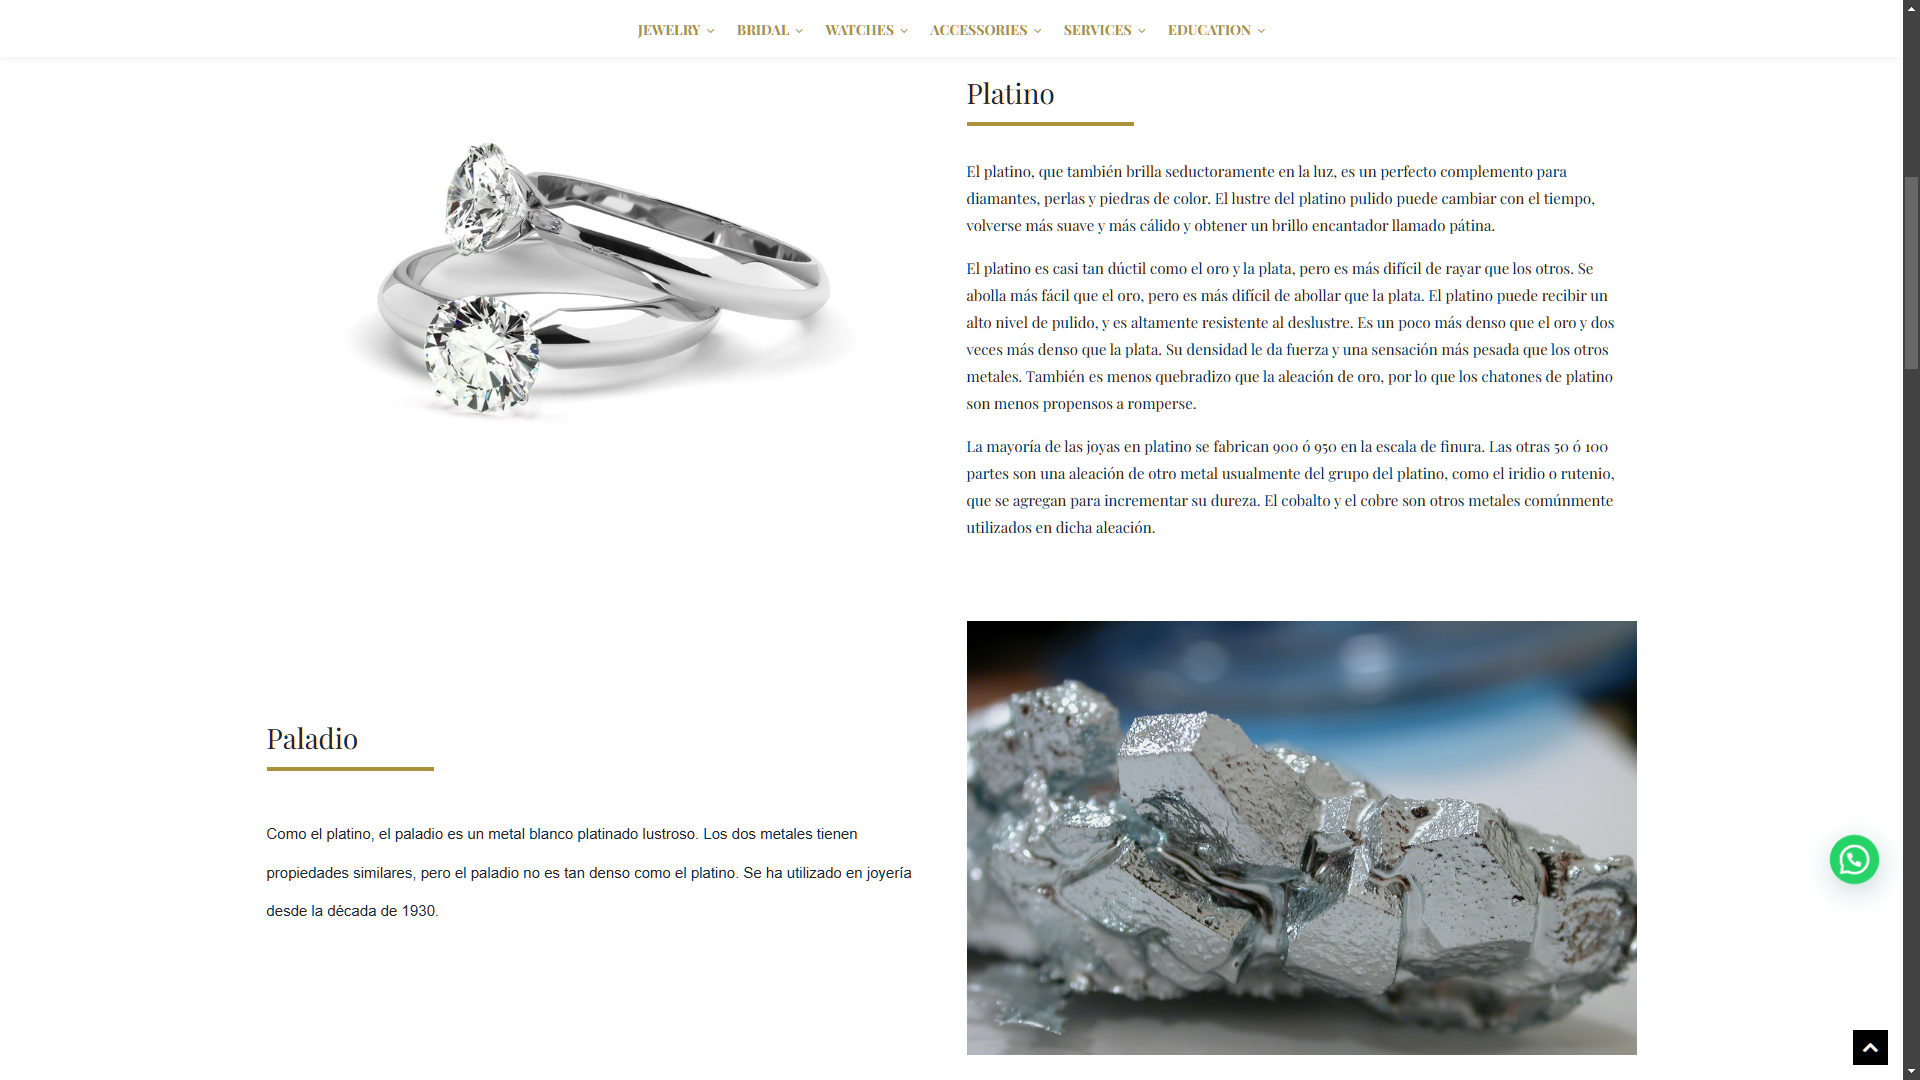
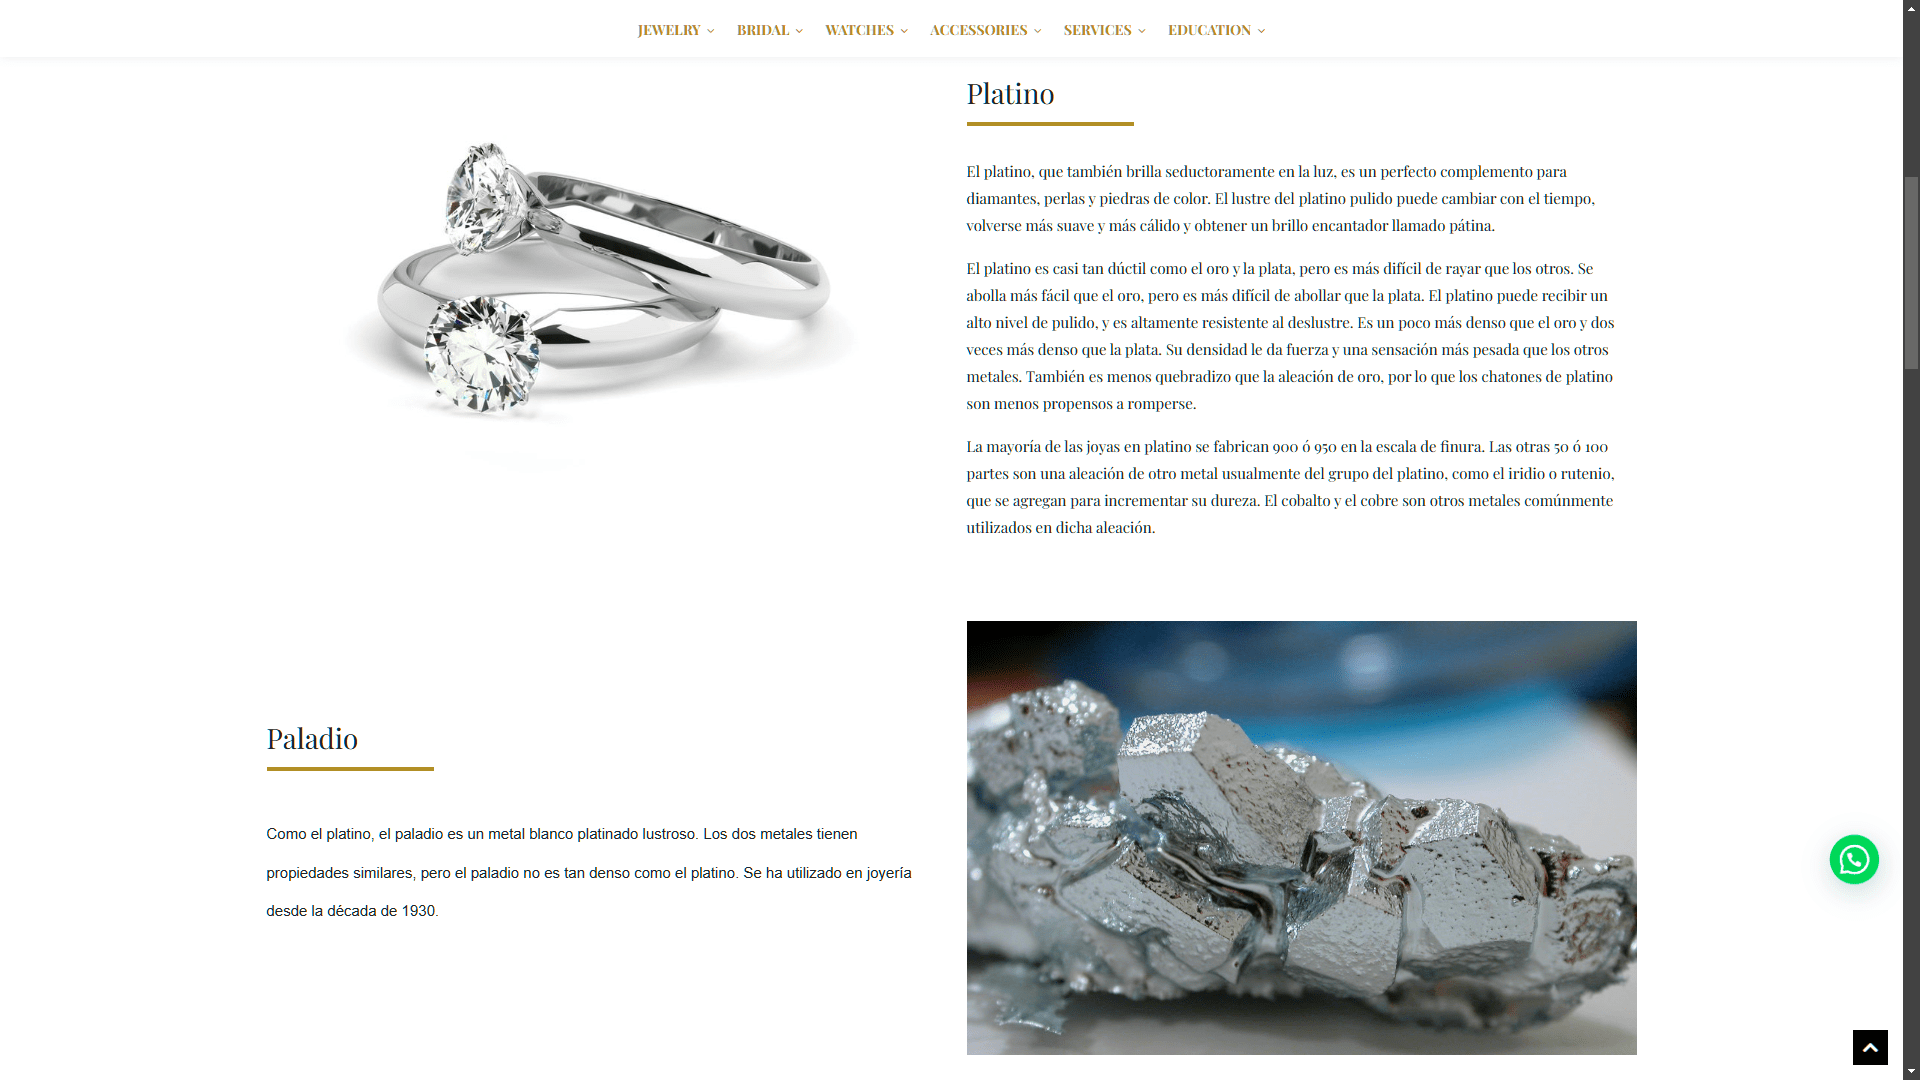
[2801202504] Update format path of images
From png to webp

Changed region(s): [[0.6562, 0.6417, 0.8125, 0.7028], [0.9375, 0.7639, 1.0, 0.825]]

diff --git a/projects/joyeria-londres.html b/projects/joyeria-londres.html
@@ -157,35 +157,35 @@
             <div class="swiper-wrapper align-items-center">
 
               <div class="swiper-slide">
-                <img loading="lazy" src="../assets/img/gallery/joyeria-londres/jl-1.png" alt="jl-1" aria-labelledby="Landing page de la pagina" tabindex="0">
+                <img loading="lazy" src="../assets/img/gallery/joyeria-londres/jl-1.webp" alt="jl-1" aria-labelledby="Landing page de la pagina" tabindex="0">
               </div>
 
               <div class="swiper-slide">
-                <img loading="lazy" src="../assets/img/gallery/joyeria-londres/jl-2.png" alt="jl-2" aria-labelledby="Home de Joyeria Londres" tabindex="1">
+                <img loading="lazy" src="../assets/img/gallery/joyeria-londres/jl-2.webp" alt="jl-2" aria-labelledby="Home de Joyeria Londres" tabindex="1">
               </div>
 
               <div class="swiper-slide">
-                <img loading="lazy" src="../assets/img/gallery/joyeria-londres/jl-3.png" alt="jl-3" aria-labelledby="Diseños de Formularios en Joyeria Londres" tabindex="3">
+                <img loading="lazy" src="../assets/img/gallery/joyeria-londres/jl-3.webp" alt="jl-3" aria-labelledby="Diseños de Formularios en Joyeria Londres" tabindex="3">
               </div>
 
               <div class="swiper-slide">
-                <img loading="lazy" src="../assets/img/gallery/joyeria-londres/jl-4.png" alt="jl-4" aria-labelledby="Las principales vistas de educacion de Joyeria Londres" tabindex="4">
+                <img loading="lazy" src="../assets/img/gallery/joyeria-londres/jl-4.webp" alt="jl-4" aria-labelledby="Las principales vistas de educacion de Joyeria Londres" tabindex="4">
               </div>
 
               <div class="swiper-slide">
-                <img loading="lazy" src="../assets/img/gallery/joyeria-londres/jl-5.png" alt="jl-5" aria-labelledby="Contenido de una las vistas de educacion de Joyeria Londres S.A.S" tabindex="5">
+                <img loading="lazy" src="../assets/img/gallery/joyeria-londres/jl-5.webp" alt="jl-5" aria-labelledby="Contenido de una las vistas de educacion de Joyeria Londres S.A.S" tabindex="5">
               </div>
 
               <div class="swiper-slide">
-                <img loading="lazy" src="../assets/img/gallery/joyeria-londres/jl-6.png" alt="jl-6" aria-labelledby="Contenido de una las vistas de educacion de Joyeria Londres S.A.S" tabindex="6">
+                <img loading="lazy" src="../assets/img/gallery/joyeria-londres/jl-6.webp" alt="jl-6" aria-labelledby="Contenido de una las vistas de educacion de Joyeria Londres S.A.S" tabindex="6">
               </div>
 
               <div class="swiper-slide">
-                <img loading="lazy" src="../assets/img/gallery/joyeria-londres/jl-7.png" alt="jl-7" aria-labelledby="Diseño de las vista de compra de producto de Joyeria Londres S.A.S" tabindex="7">
+                <img loading="lazy" src="../assets/img/gallery/joyeria-londres/jl-7.webp" alt="jl-7" aria-labelledby="Diseño de las vista de compra de producto de Joyeria Londres S.A.S" tabindex="7">
               </div>
 
               <div class="swiper-slide">
-                <img loading="lazy" src="../assets/img/gallery/joyeria-londres/jl-8.png" alt="jl-8" aria-labelledby="Diseño del GRIDSHOP del eCommerce de Joyeria Londres S.A.S" tabindex="7">
+                <img loading="lazy" src="../assets/img/gallery/joyeria-londres/jl-8.webp" alt="jl-8" aria-labelledby="Diseño del GRIDSHOP del eCommerce de Joyeria Londres S.A.S" tabindex="7">
               </div>
 
             </div>
